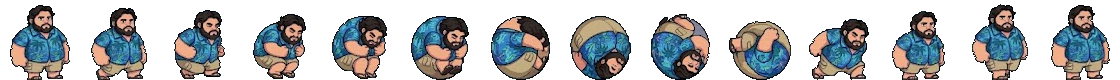
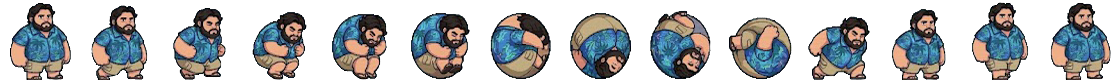
Palla di Matteo dallo scontorno dell'utente
Il foglio viene da rotolo.png: bordi continui, senza i punti chiari.

diff --git a/index.html b/index.html
@@ -20,7 +20,7 @@
 <link rel="preconnect" href="https://fonts.googleapis.com">
 <link rel="preconnect" href="https://fonts.gstatic.com" crossorigin>
 <link rel="stylesheet" href="https://fonts.googleapis.com/css2?family=Bowlby+One&family=Baloo+2:wght@500;700;800&display=swap">
-<link rel="stylesheet" href="style.css?v=46">
+<link rel="stylesheet" href="style.css?v=47">
 
 <div id="schermo">
 <canvas id="d2" aria-label="Gioco Cicciobomba"></canvas>
@@ -101,6 +101,6 @@
 <div id="erroreT" hidden>Il gioco non è riuscito a partire. Controlla la connessione e ricarica la pagina.</div>
 
 </div>
-<script src="game.js?v=46"></script>
+<script src="game.js?v=47"></script>
 
 </body></html>

diff --git a/CLAUDE.md b/CLAUDE.md
@@ -6,7 +6,7 @@ Gioco per browser pensato per il telefono in orizzontale, pubblicato con GitHub 
 - `index.html`: solo il markup delle schermate (menu, guida, amici e skin, pausa, fine, HUD).
 - `style.css`: lo stile, con i colori come variabili su `:root`.
 - `game.js`: tutta la logica, in un unico script classico chiuso in una funzione e diviso in sezioni `/* ---------- NOME ---------- */`: orientamento, salvataggio, mondi e tappe, kit grafico e sonoro, skin, palla dipinta, audio, stato, comandi, cuori, corsa 2D, boss 2D, la bomba, guida, flusso, menu, ciclo.
-- `assets/`: `matteo_fermo.webp`, `matteo_cammina.webp`, `matteo_salto.webp`, `matteo_palla.webp` e `matteo_stanco.webp` (il Matteo nuovo dell'utente, con la camicia blu: mappe nei commenti sopra `fogSpr`. In partita e nel menu li usa solo il Matteo normale, senza colore, skin o foto; gli amici, la guida e le anteprime di Amici e skin usano ancora `personaggio*.webp`. `matteo_palla.webp` e `matteo_stanco.webp` vengono da immagini piccole: i pixel chiari del bordo sono stati tolti e il bordo ridipinto di scuro. Alto 3,8 raggi (`SPR_K`), piedi abbassati di `SPR_PIEDI`. `matteo_cammina.webp` ha solo i fotogrammi scelti, nell'ordine in cui braccia e gambe si alternano: 0-5 corre, 6-9 cammina, 10-20 si gira per noia. La camminata alterna le gambe: destra avanti (2ª riga, 6°, senza la macchia grigia), passaggio (4ª riga, 4°), sinistra avanti (4ª riga, 6°), passaggio (2ª riga, 2°). Nel foglio la gamba vicina è la destra: è più chiara e ha la tasca; le altre righe hanno quasi sempre la sinistra avanti. L'utente non vuole dissolvenze tra i fotogrammi, perché sembrano sfumati, né un contorno nero aggiunto), `fondi/ananas_nuovo.webp` (fondale attuale del mondo 1, ripetuto a specchio da `strato`. Velato del 32% verso l'azzurro `#aee9fb` e con i colori al 82%: a piena forza competeva con pizze e nemici, a 48% era slavato), `anteprima.jpg` e `icona.png` (immagine e icona per il link condiviso, con i tag in testa a `index.html` e l'indirizzo intero: se cambi l'immagine alza il suo `?v=`), `kit.webp` (atlante dei blocchi Kenney, coordinate in `KMAP`), `personaggio.webp`, `personaggio2.webp` e `personaggio3.webp` (fogli delle animazioni di Matteo; il terzo è Matteo stanco, con le stesse celle da 200 del secondo), `fumo.webp`, `polvere.webp`, `esplosione.webp`, `pizza.webp`, `kit2.webp` (altri pezzi del kit), `nemico_ananas.webp` (l'ananas arrabbiato dal foglio "Pineapple Tiles" CC0 dell'utente, nemico del mondo 1; degli altri pezzi di quel foglio l'utente non vuole niente, né per il terreno né per le grotte; il terreno ananas di `paesaggio.webp` è un'altra serie, che invece gli va bene), `paesaggio.webp` (terreno del mondo 1: buccia e polpa d'ananas disegnate dall'utente, caselle da 68 nello stesso ordine di `PIX`, poi la rampa (`sprite-20.png`), la terra sotto la rampa (`paesaggio.png`) e i lati del piano: ai piedi di un muro (`sprite-28.png`), gradino in giù (`sprite-29.png`) e bordo sul vuoto (`sprite-30.png`), poi il muro accanto al bordo sul vuoto (`sprite-32.png`) sotto una colonna (`sprite-33.png`) e il piano ai lati della colonna (`sprite-31.png`); i pezzi singoli stanno in `paesaggio/`), `erbananas.webp` (ciuffo d'ananas dell'utente, al posto del cespuglio nei decori del mondo 1 e nel menu, disegnato da `ciuffo()` in grandezza vera, alla scala delle caselle da 68, perché il bordo scuro sia spesso come quello del pavimento. Largo più di 3 caselle, deve stare tutto sul piano: se sporge sul vuoto rientra un po' a sinistra (`d.dx`), e se non ci sta diventa erba; l'originale è `paesaggio/erbananas.png`), `bomba.webp` (Matteo carico al massimo: 37 fotogrammi da 160 in righe da 10, mappa in `disegnaBomba`), `boss_ananas.webp` (Ananassone: fotogrammi da 192x204 in righe da 8, 32-34 stordito, mappa in `disegnaAnanas` e `disegnaBoss`; gli altri due boss sono ancora disegnati nel codice in `BOSPR`), `fondi/*.webp` (nel mondo 1, con `retro:'cielo'`, dietro c'è solo il cielo: azzurro sfumato e in alto la striscia `cielo_nuvole.webp`, ritagliata dal disegno dell'utente; l'utente ha provato a metterci sopra un dipinto della valle col fiume e non lo vuole: dietro resta solo il cielo; davanti `ananas_ponti.webp`, il disegno dell'utente con gli ananas giganti e i ponti (1024x572, già scontornato da lui), che scorre piano (0,1). L'utente l'ha ridisegnato perché i bordi destro e sinistro si attacchino: `stratoPonti` mette le copie una dopo l'altra, sovrapposte di un pixel, senza sfumature né specchio. `strato()` ripete le immagini specchiate una volta sì e una no, senza le due colonne di bordo e sovrapposte di 3 px: prima tra una copia e l'altra si vedeva una riga chiara. Restano nel codice, non usati, il fondale arancio `ananas_lontano.webp` (`retro:'ananas_lontano'`) e gli oggetti di `oggetti.webp` (`oggetti:true`, `filaOggetti`)), messi in due file ripetute e sovrapposte da `filaOggetti`, con `oggetti:true` nel mondo. La felce grande è attaccata all'albero e resta con lui; le liane e la foglia sola non si usano), `suoni/*.mp3`.
+- `assets/`: `matteo_fermo.webp`, `matteo_cammina.webp`, `matteo_salto.webp`, `matteo_palla.webp` e `matteo_stanco.webp` (il Matteo nuovo dell'utente, con la camicia blu: mappe nei commenti sopra `fogSpr`. In partita e nel menu li usa solo il Matteo normale, senza colore, skin o foto; gli amici, la guida e le anteprime di Amici e skin usano ancora `personaggio*.webp`. `matteo_palla.webp` viene da `rotolo.png`, scontornata dall'utente: si tiene il suo bordo così com'è. `matteo_stanco.webp` viene da un'immagine piccola: i pixel chiari del bordo sono stati tolti e il bordo ridipinto di scuro. Alto 3,8 raggi (`SPR_K`), piedi abbassati di `SPR_PIEDI`. `matteo_cammina.webp` ha solo i fotogrammi scelti, nell'ordine in cui braccia e gambe si alternano: 0-5 corre, 6-9 cammina, 10-20 si gira per noia. La camminata alterna le gambe: destra avanti (2ª riga, 6°, senza la macchia grigia), passaggio (4ª riga, 4°), sinistra avanti (4ª riga, 6°), passaggio (2ª riga, 2°). Nel foglio la gamba vicina è la destra: è più chiara e ha la tasca; le altre righe hanno quasi sempre la sinistra avanti. L'utente non vuole dissolvenze tra i fotogrammi, perché sembrano sfumati, né un contorno nero aggiunto), `fondi/ananas_nuovo.webp` (fondale attuale del mondo 1, ripetuto a specchio da `strato`. Velato del 32% verso l'azzurro `#aee9fb` e con i colori al 82%: a piena forza competeva con pizze e nemici, a 48% era slavato), `anteprima.jpg` e `icona.png` (immagine e icona per il link condiviso, con i tag in testa a `index.html` e l'indirizzo intero: se cambi l'immagine alza il suo `?v=`), `kit.webp` (atlante dei blocchi Kenney, coordinate in `KMAP`), `personaggio.webp`, `personaggio2.webp` e `personaggio3.webp` (fogli delle animazioni di Matteo; il terzo è Matteo stanco, con le stesse celle da 200 del secondo), `fumo.webp`, `polvere.webp`, `esplosione.webp`, `pizza.webp`, `kit2.webp` (altri pezzi del kit), `nemico_ananas.webp` (l'ananas arrabbiato dal foglio "Pineapple Tiles" CC0 dell'utente, nemico del mondo 1; degli altri pezzi di quel foglio l'utente non vuole niente, né per il terreno né per le grotte; il terreno ananas di `paesaggio.webp` è un'altra serie, che invece gli va bene), `paesaggio.webp` (terreno del mondo 1: buccia e polpa d'ananas disegnate dall'utente, caselle da 68 nello stesso ordine di `PIX`, poi la rampa (`sprite-20.png`), la terra sotto la rampa (`paesaggio.png`) e i lati del piano: ai piedi di un muro (`sprite-28.png`), gradino in giù (`sprite-29.png`) e bordo sul vuoto (`sprite-30.png`), poi il muro accanto al bordo sul vuoto (`sprite-32.png`) sotto una colonna (`sprite-33.png`) e il piano ai lati della colonna (`sprite-31.png`); i pezzi singoli stanno in `paesaggio/`), `erbananas.webp` (ciuffo d'ananas dell'utente, al posto del cespuglio nei decori del mondo 1 e nel menu, disegnato da `ciuffo()` in grandezza vera, alla scala delle caselle da 68, perché il bordo scuro sia spesso come quello del pavimento. Largo più di 3 caselle, deve stare tutto sul piano: se sporge sul vuoto rientra un po' a sinistra (`d.dx`), e se non ci sta diventa erba; l'originale è `paesaggio/erbananas.png`), `bomba.webp` (Matteo carico al massimo: 37 fotogrammi da 160 in righe da 10, mappa in `disegnaBomba`), `boss_ananas.webp` (Ananassone: fotogrammi da 192x204 in righe da 8, 32-34 stordito, mappa in `disegnaAnanas` e `disegnaBoss`; gli altri due boss sono ancora disegnati nel codice in `BOSPR`), `fondi/*.webp` (nel mondo 1, con `retro:'cielo'`, dietro c'è solo il cielo: azzurro sfumato e in alto la striscia `cielo_nuvole.webp`, ritagliata dal disegno dell'utente; l'utente ha provato a metterci sopra un dipinto della valle col fiume e non lo vuole: dietro resta solo il cielo; davanti `ananas_ponti.webp`, il disegno dell'utente con gli ananas giganti e i ponti (1024x572, già scontornato da lui), che scorre piano (0,1). L'utente l'ha ridisegnato perché i bordi destro e sinistro si attacchino: `stratoPonti` mette le copie una dopo l'altra, sovrapposte di un pixel, senza sfumature né specchio. `strato()` ripete le immagini specchiate una volta sì e una no, senza le due colonne di bordo e sovrapposte di 3 px: prima tra una copia e l'altra si vedeva una riga chiara. Restano nel codice, non usati, il fondale arancio `ananas_lontano.webp` (`retro:'ananas_lontano'`) e gli oggetti di `oggetti.webp` (`oggetti:true`, `filaOggetti`)), messi in due file ripetute e sovrapposte da `filaOggetti`, con `oggetti:true` nel mondo. La felce grande è attaccata all'albero e resta con lui; le liane e la foglia sola non si usano), `suoni/*.mp3`.
 - `tools/build.py`: ricompone tutto in `dist/cicciobomba.html`, un file unico con le risorse dentro, che si apre con un doppio clic. `dist/` è generata ed esclusa da git: non modificarla a mano.
 
 ## Regole
